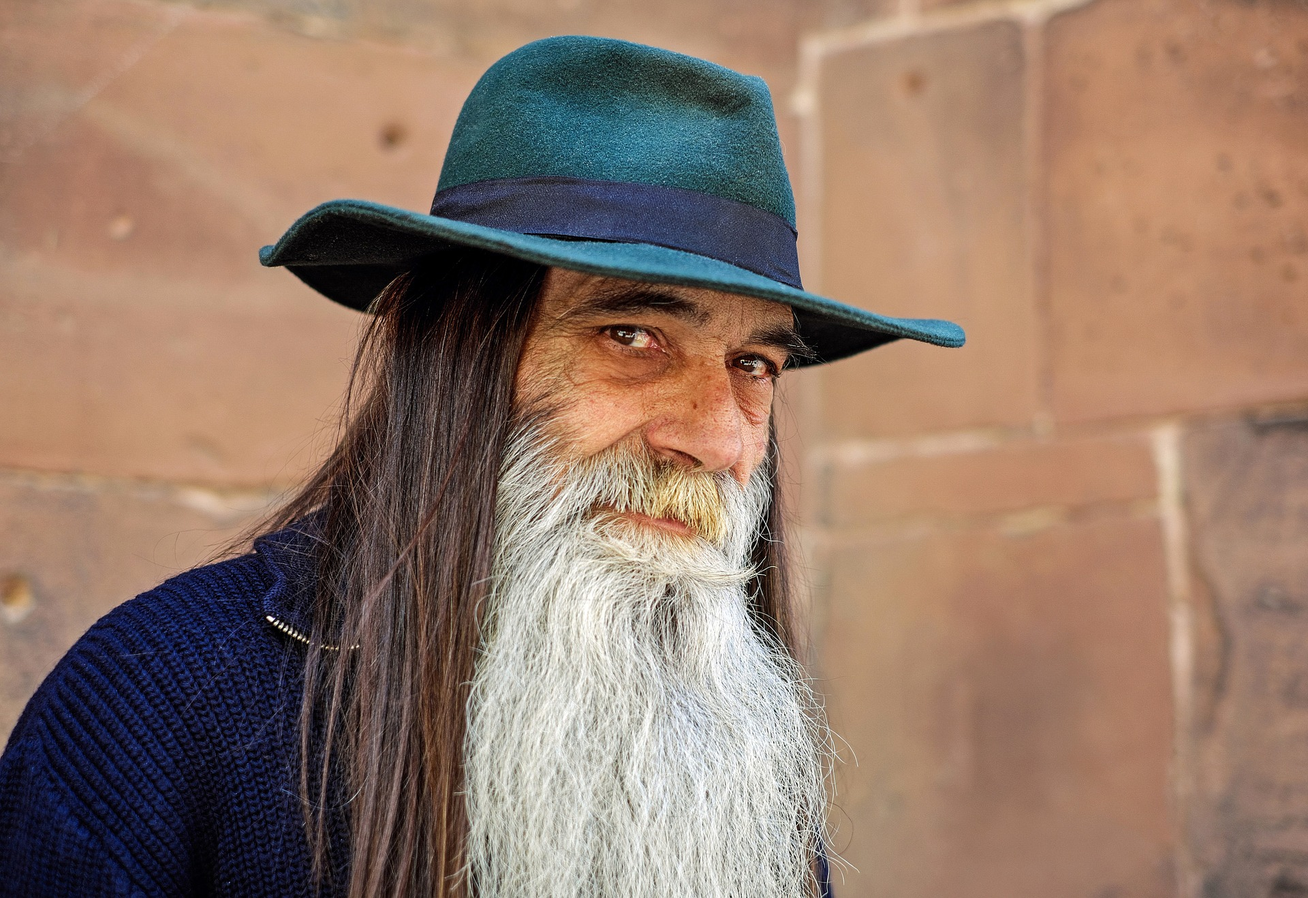
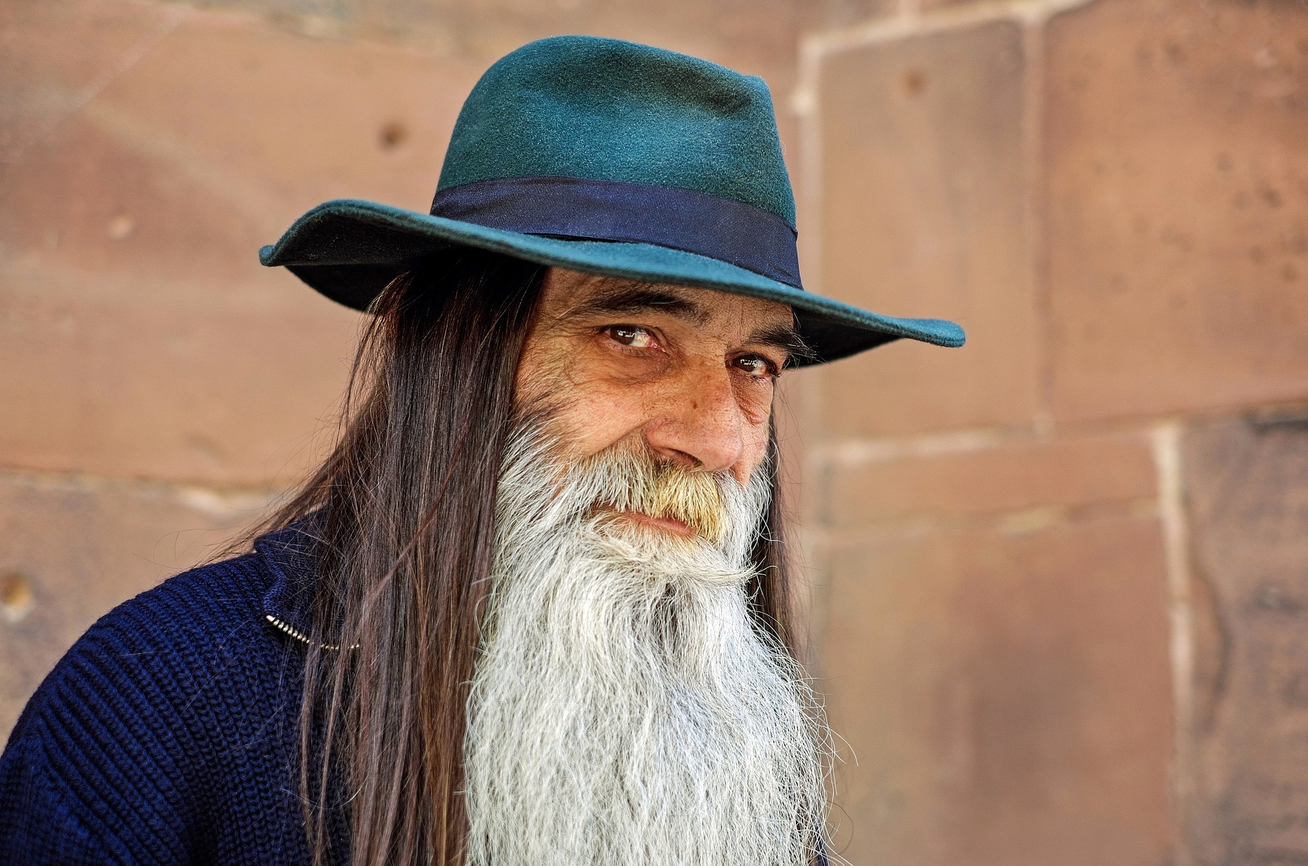
gdfg

diff --git a/html/contact.html b/html/contact.html
@@ -16,7 +16,7 @@
 <div class="row">
   <div class="colonne">
     <div class="cadre">
-      <img src="../images/diego.png" style="width:100%">
+      <img src="../images/diego.jpg" style="width:100%">
       <div class="container">
         <h2>Diego Marques</h2>
         <p class="title"> le seul et l'unique CEO</p>
